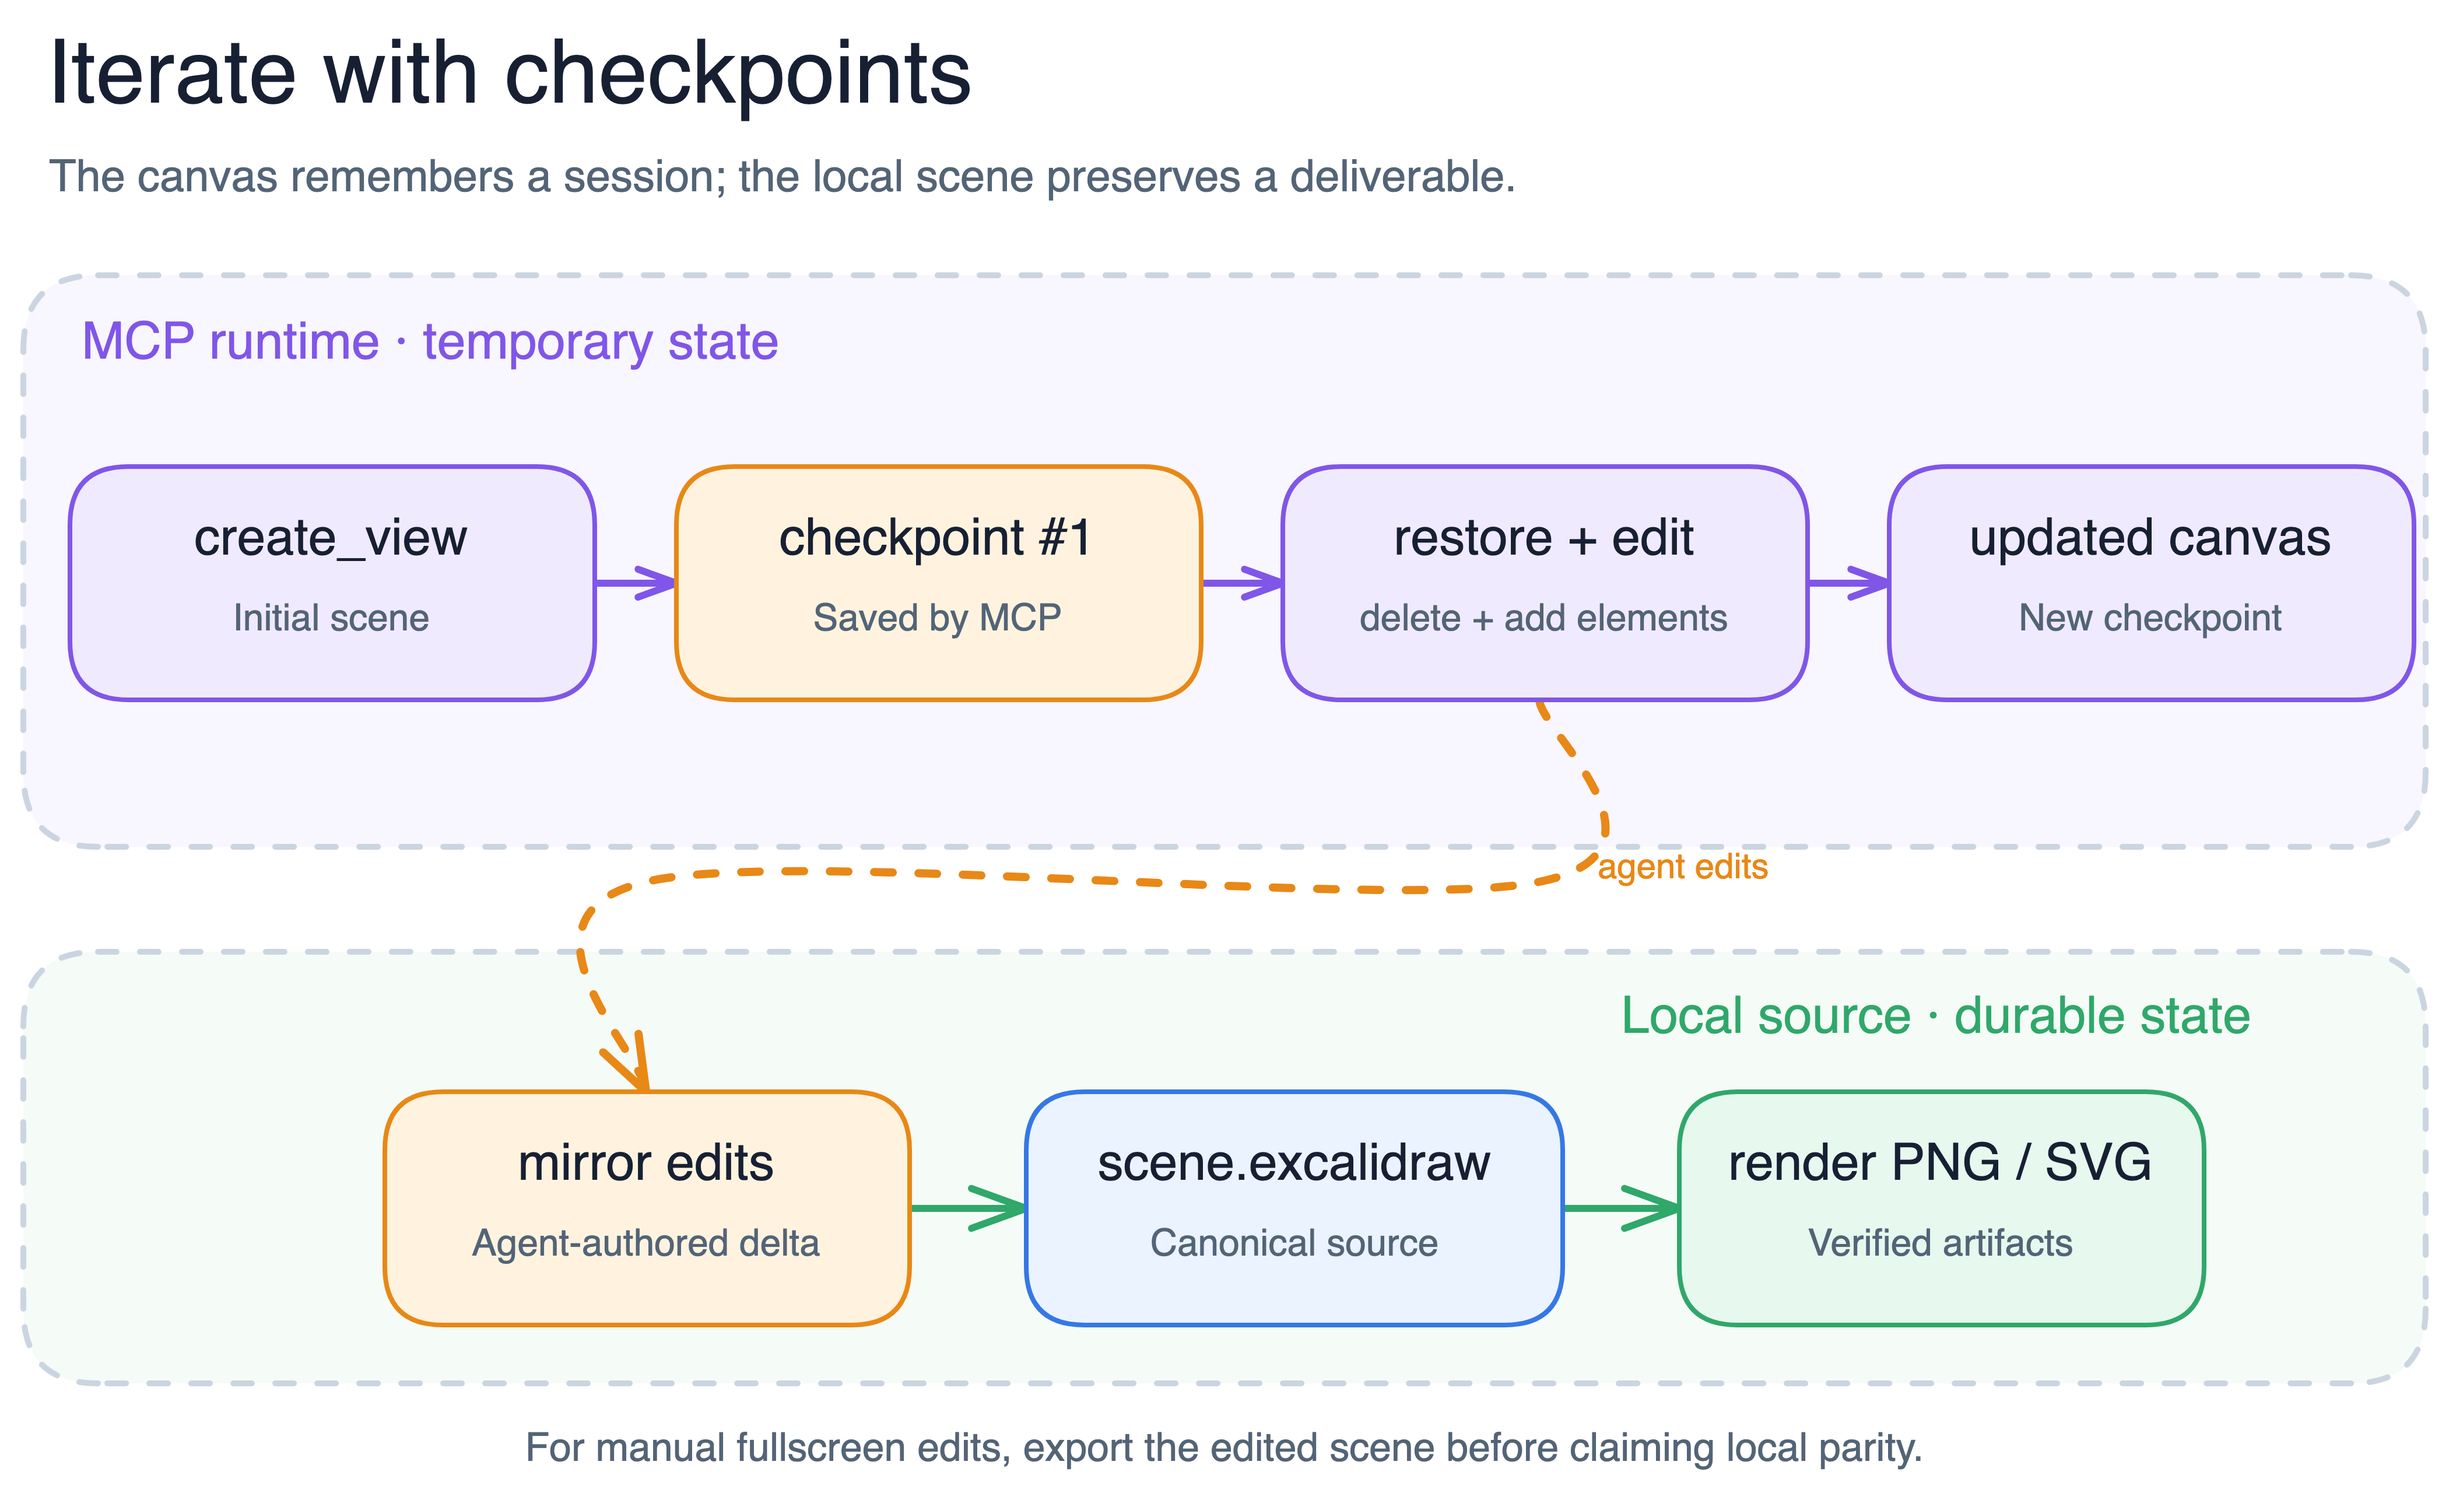
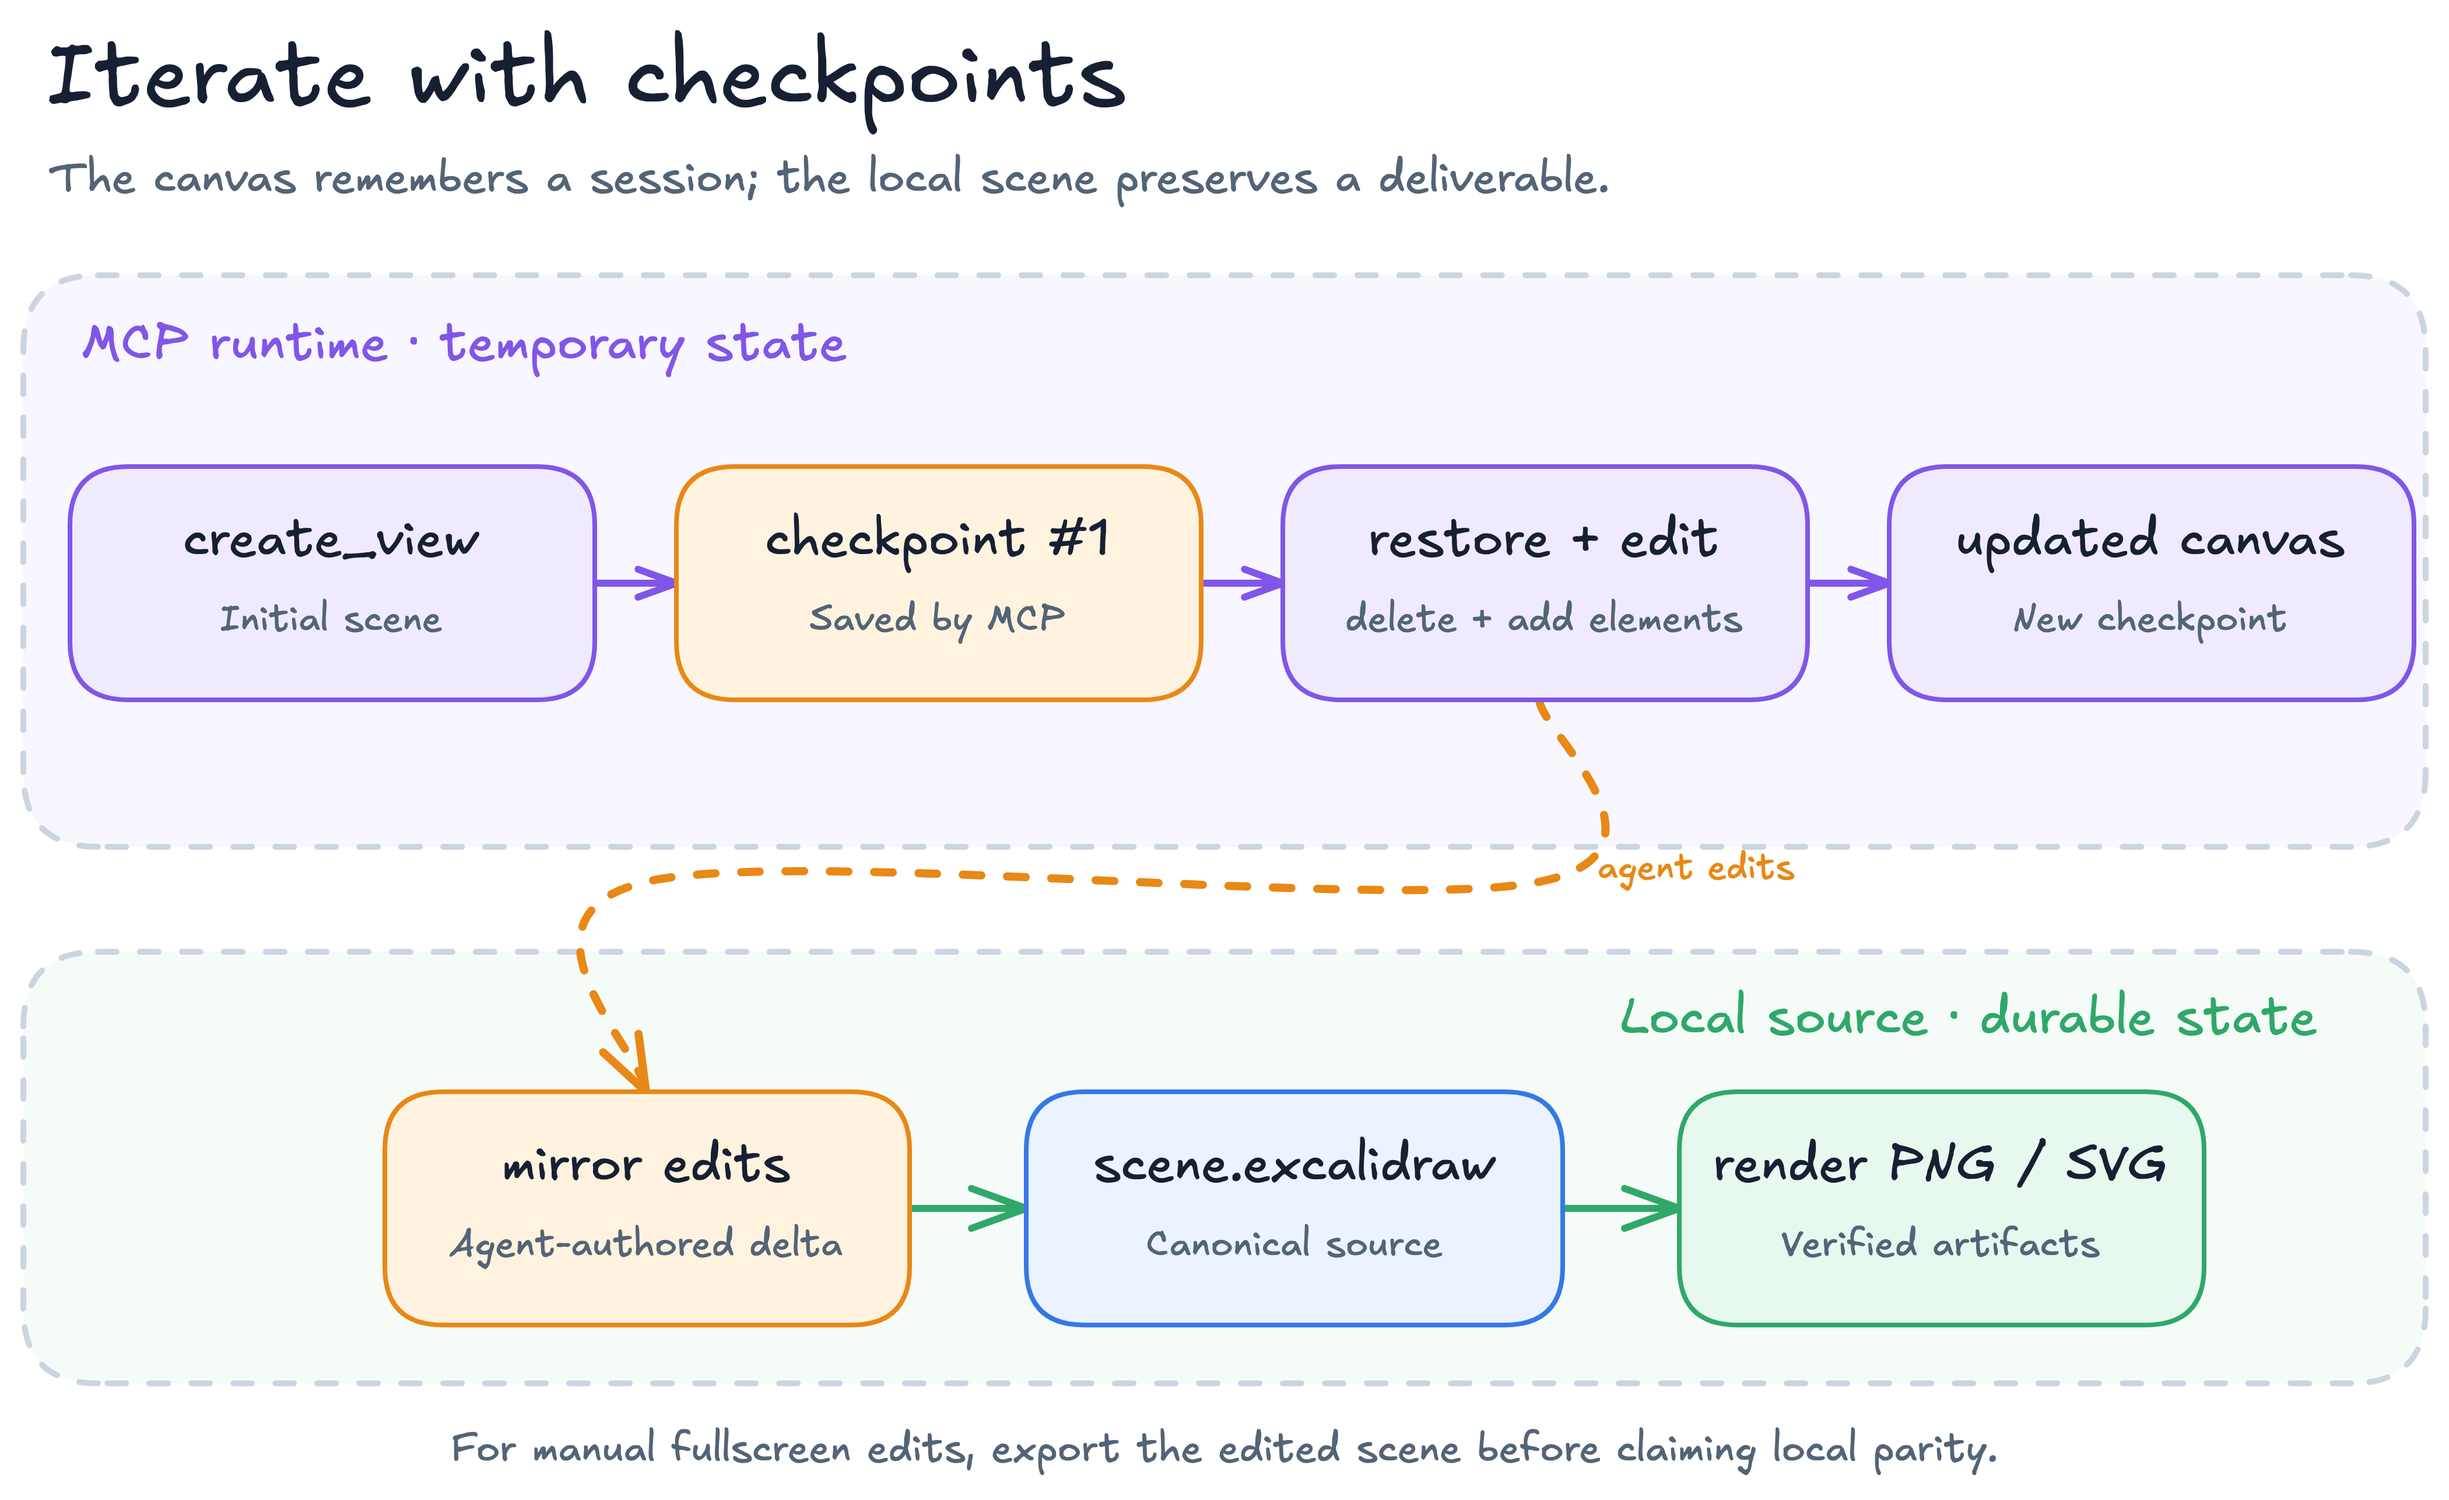
fix: align MCP text with local Excalidraw examples

diff --git a/scripts/test_mcp_payload.py b/scripts/test_mcp_payload.py
@@ -67,6 +67,58 @@ def main() -> None:
         if payload[1]["id"] != "box":
             raise SystemExit("native element order was not preserved")
 
+        centered_text = {
+            "id": "centered",
+            "type": "text",
+            "x": 100,
+            "y": 120,
+            "width": 200,
+            "height": 30,
+            "text": "Hello",
+            "fontSize": 20,
+            "textAlign": "center",
+            "containerId": None,
+        }
+        input_path.write_text(json.dumps(scene([rectangle(), centered_text])), encoding="utf-8")
+        result = run(input_path, output_path)
+        if result.returncode != 0:
+            raise SystemExit(result.stderr)
+        payload = json.loads(output_path.read_text(encoding="utf-8"))
+        converted = payload[2]
+        if converted["textAlign"] != "left" or not 160 < converted["x"] < 200:
+            raise SystemExit("centered native text was not placed for MCP rendering")
+        if centered_text["textAlign"] != "center" or centered_text["x"] != 100:
+            raise SystemExit("MCP conversion changed the source text")
+
+        examples = HERE.parent / "examples"
+        labeled_boxes = {
+            "mcp-local-export-pipeline": {
+                "scene-title": "scene",
+                "payload-title": "payload",
+                "view-title": "view",
+                "renderer-title": "renderer",
+                "files-title": "files",
+            },
+            "checkpoint-iteration": {
+                "initial-title": "initial",
+                "checkpoint-title": "checkpoint-one",
+                "restore-title": "restore-edit",
+                "updated-title": "updated",
+                "mirror-title": "mirror",
+                "scene-title": "scene",
+                "export-title": "export",
+            },
+        }
+        for example_name, pairs in labeled_boxes.items():
+            result = run(examples / f"{example_name}.excalidraw", output_path)
+            if result.returncode != 0:
+                raise SystemExit(result.stderr)
+            by_id = {element["id"]: element for element in json.loads(output_path.read_text(encoding="utf-8"))[1:]}
+            for text_id, box_id in pairs.items():
+                title, box = by_id[text_id], by_id[box_id]
+                if title["textAlign"] != "left" or not box["x"] < title["x"] < box["x"] + box["width"]:
+                    raise SystemExit(f"{example_name}: {text_id} is not anchored inside {box_id}")
+
         labeled = rectangle("labeled")
         labeled["label"] = {"text": "not native"}
         input_path.write_text(json.dumps(scene([labeled])), encoding="utf-8")

diff --git a/scripts/prepare_mcp_payload.py b/scripts/prepare_mcp_payload.py
@@ -3,6 +3,7 @@ from __future__ import annotations
 import argparse
 import json
 import sys
+import unicodedata
 from pathlib import Path
 from typing import Any
 
@@ -76,6 +77,48 @@ def validate_elements(elements: list[Any]) -> list[dict[str, Any]]:
     return active
 
 
+def estimated_text_width(value: str, font_size: float) -> float:
+    """Estimate Excalifont's line width for MCP's left-anchored text input."""
+    widths = []
+    for line in value.split("\n"):
+        units = 0.0
+        for character in line:
+            if unicodedata.east_asian_width(character) in {"W", "F"}:
+                units += 1.0
+            elif character in " iljtfr.,:;!|\u2019'`":
+                units += 0.34
+            elif character in "MW@#%&":
+                units += 0.8
+            else:
+                units += 0.55
+        widths.append(units * font_size)
+    return max(widths, default=0.0)
+
+
+def adapt_text_for_mcp(element: dict[str, Any]) -> dict[str, Any]:
+    """Keep native text positioning out of MCP's shorthand alignment rules."""
+    if element.get("type") != "text" or element.get("containerId"):
+        return element
+    alignment = element.get("textAlign", "left")
+    if alignment not in {"center", "right"}:
+        return element
+
+    width = float(element.get("width", 0))
+    if width <= 0:
+        return element
+    text_width = estimated_text_width(str(element.get("text", "")), float(element.get("fontSize", 20)))
+    x = float(element.get("x", 0))
+    if alignment == "center":
+        x += (width - text_width) / 2
+    else:
+        x += width - text_width
+
+    adapted = dict(element)
+    adapted["x"] = round(x, 2)
+    adapted["textAlign"] = "left"
+    return adapted
+
+
 def automatic_camera(elements: list[dict[str, Any]], padding: int) -> dict[str, Any]:
     bounds = [element_bounds(element) for element in elements]
     min_x = min(bound[0] for bound in bounds) - padding
@@ -107,7 +150,8 @@ def automatic_camera(elements: list[dict[str, Any]], padding: int) -> dict[str, 
 
 def build_payload(scene: dict[str, Any], padding: int) -> list[dict[str, Any]]:
     elements = validate_elements(scene["elements"])
-    return [automatic_camera(elements, padding), *elements]
+    adapted = [adapt_text_for_mcp(element) for element in elements]
+    return [automatic_camera(adapted, padding), *adapted]
 
 
 def parse_args() -> argparse.Namespace:

diff --git a/examples/generate_skill_workflows.py b/examples/generate_skill_workflows.py
@@ -67,7 +67,7 @@ class Diagram:
             strokeWidth=1,
             text=value,
             fontSize=size,
-            fontFamily=2,
+            fontFamily=5,
             textAlign=align,
             verticalAlign="top",
             containerId=None,

diff --git a/SKILL.md b/SKILL.md
@@ -13,7 +13,7 @@ Combine the Excalidraw MCP experience with reproducible local artifacts. The MCP
 2. Use real names and evidence for technical diagrams. Do not replace known APIs, events, payloads, or components with generic placeholders.
 3. When the Excalidraw MCP tools are available, call `read_me` once, then use `create_view` to show and iterate on the diagram. Follow the live tool schema because it may be newer than this skill.
 4. When a durable artifact is requested, maintain a native `.excalidraw` scene as the canonical copy. Use `scripts/prepare_mcp_payload.py` to send that scene to `create_view` without changing the local source.
-5. Render the canonical scene with `scripts/render_excalidraw.py` and inspect a PNG preview. Fix clipping, overlaps, weak hierarchy, crossed arrows, and excessive empty space before delivery. Export SVG when the user needs a vector artifact.
+5. Render the canonical scene with `scripts/render_excalidraw.py` and inspect a PNG preview. Also inspect the MCP canvas itself: `create_view` accepting a payload does not prove its text layout matches the local export. Fix clipping, overlaps, weak hierarchy, crossed arrows, and excessive empty space before delivery. Export SVG when the user needs a vector artifact.
 6. Deliver the requested interactive view and, when applicable, both the editable source and verified preview.
 
 ## Choose the State Model
@@ -36,6 +36,8 @@ python {baseDir}/scripts/prepare_mcp_payload.py \
 
 Pass the resulting JSON array as the `elements` argument to `create_view`. The script deliberately rejects MCP shorthand labels and embedded files because those cannot round-trip through the current local renderer without changing semantics.
 
+The MCP viewer forces Excalifont on text and interprets standalone centered text differently from native Excalidraw. The payload preparer repositions unbound centered/right-aligned text for that viewer without changing the source file. Use Excalifont in the native scene when visual parity matters, and inspect the actual MCP view before claiming a match.
+
 For iterative MCP-only edits, retain the returned checkpoint ID and send only:
 
 ```json
@@ -54,7 +56,7 @@ Set up the renderer once:
 
 ```bash
 uv sync --project {baseDir}/scripts
-uv run --project {baseDir}/scripts playwright install chromium
+uv run --project {baseDir}/scripts python -m playwright install chromium
 ```
 
 Render PNG and SVG files:

diff --git a/references/mcp-workflow.md b/references/mcp-workflow.md
@@ -25,8 +25,8 @@ Use this flow when the user needs files or repeatable export:
 
 1. Create or update a native `.excalidraw` document locally.
 2. Avoid the MCP `label` shorthand; represent labels as native text/binding elements so the MCP view and local renderer share the same scene semantics.
-3. Run `prepare_mcp_payload.py` to prepend a camera and produce the JSON array expected by `create_view`.
-4. Show the interactive MCP view and retain its returned checkpoint only for this task.
+3. Run `prepare_mcp_payload.py` to prepend a camera, adapt standalone text alignment, and produce the JSON array expected by `create_view`.
+4. Show and visually inspect the interactive MCP view; receiving a checkpoint ID alone is not a layout check. Retain the checkpoint only for this task.
 5. Apply agent-authored changes to the local source as well as the checkpoint.
 6. Render the local source and visually inspect the PNG.
 
@@ -45,6 +45,7 @@ Use this flow when the user mainly wants to explore or iterate in chat:
 ## Fidelity limits
 
 - Screenshot feedback is useful for visual review but cannot recover element IDs, bindings, or full styling.
+- The MCP viewer forces Excalifont for text. Use the same font in the local source when visual parity matters, and check placement after conversion.
 - The widget's edit context reports a compact change summary; it is not a complete scene serialization.
 - Embedded image/file payloads do not fit the elements-only `create_view` input and require a separate supported transfer path.
 - Checkpoints may expire or be unavailable after service/session changes. Keep durable work in a local source file.

diff --git a/README.md b/README.md
@@ -27,6 +27,8 @@ native .excalidraw scene
 
 The two branches read the same local scene independently. Agent-authored canvas changes must also be applied to that scene before generating new files.
 
+The MCP canvas reinterprets standalone text alignment and uses Excalifont. The payload preparer adjusts centered text positions for MCP, and the two workflow examples use Excalifont in their local sources. Always inspect the interactive canvas as well as the exported image when checking visual parity.
+
 ## Examples
 
 ### Agent tool-call loop
@@ -59,7 +61,7 @@ Set up local rendering:
 ```bash
 uv sync --project .agents/skills/excalidraw-agent/scripts
 uv run --project .agents/skills/excalidraw-agent/scripts \
-  playwright install chromium
+  python -m playwright install chromium
 ```
 
 For the interactive canvas, connect an MCP Apps-compatible client to:
@@ -110,7 +112,7 @@ See [the MCP workflow](references/mcp-workflow.md) and [scene recovery guide](re
 
 ```bash
 uv sync --project scripts --locked
-uv run --project scripts playwright install chromium
+uv run --project scripts python -m playwright install chromium
 uv run --project scripts python scripts/test_renderer.py
 uv run --project scripts python scripts/test_mcp_payload.py
 ```
